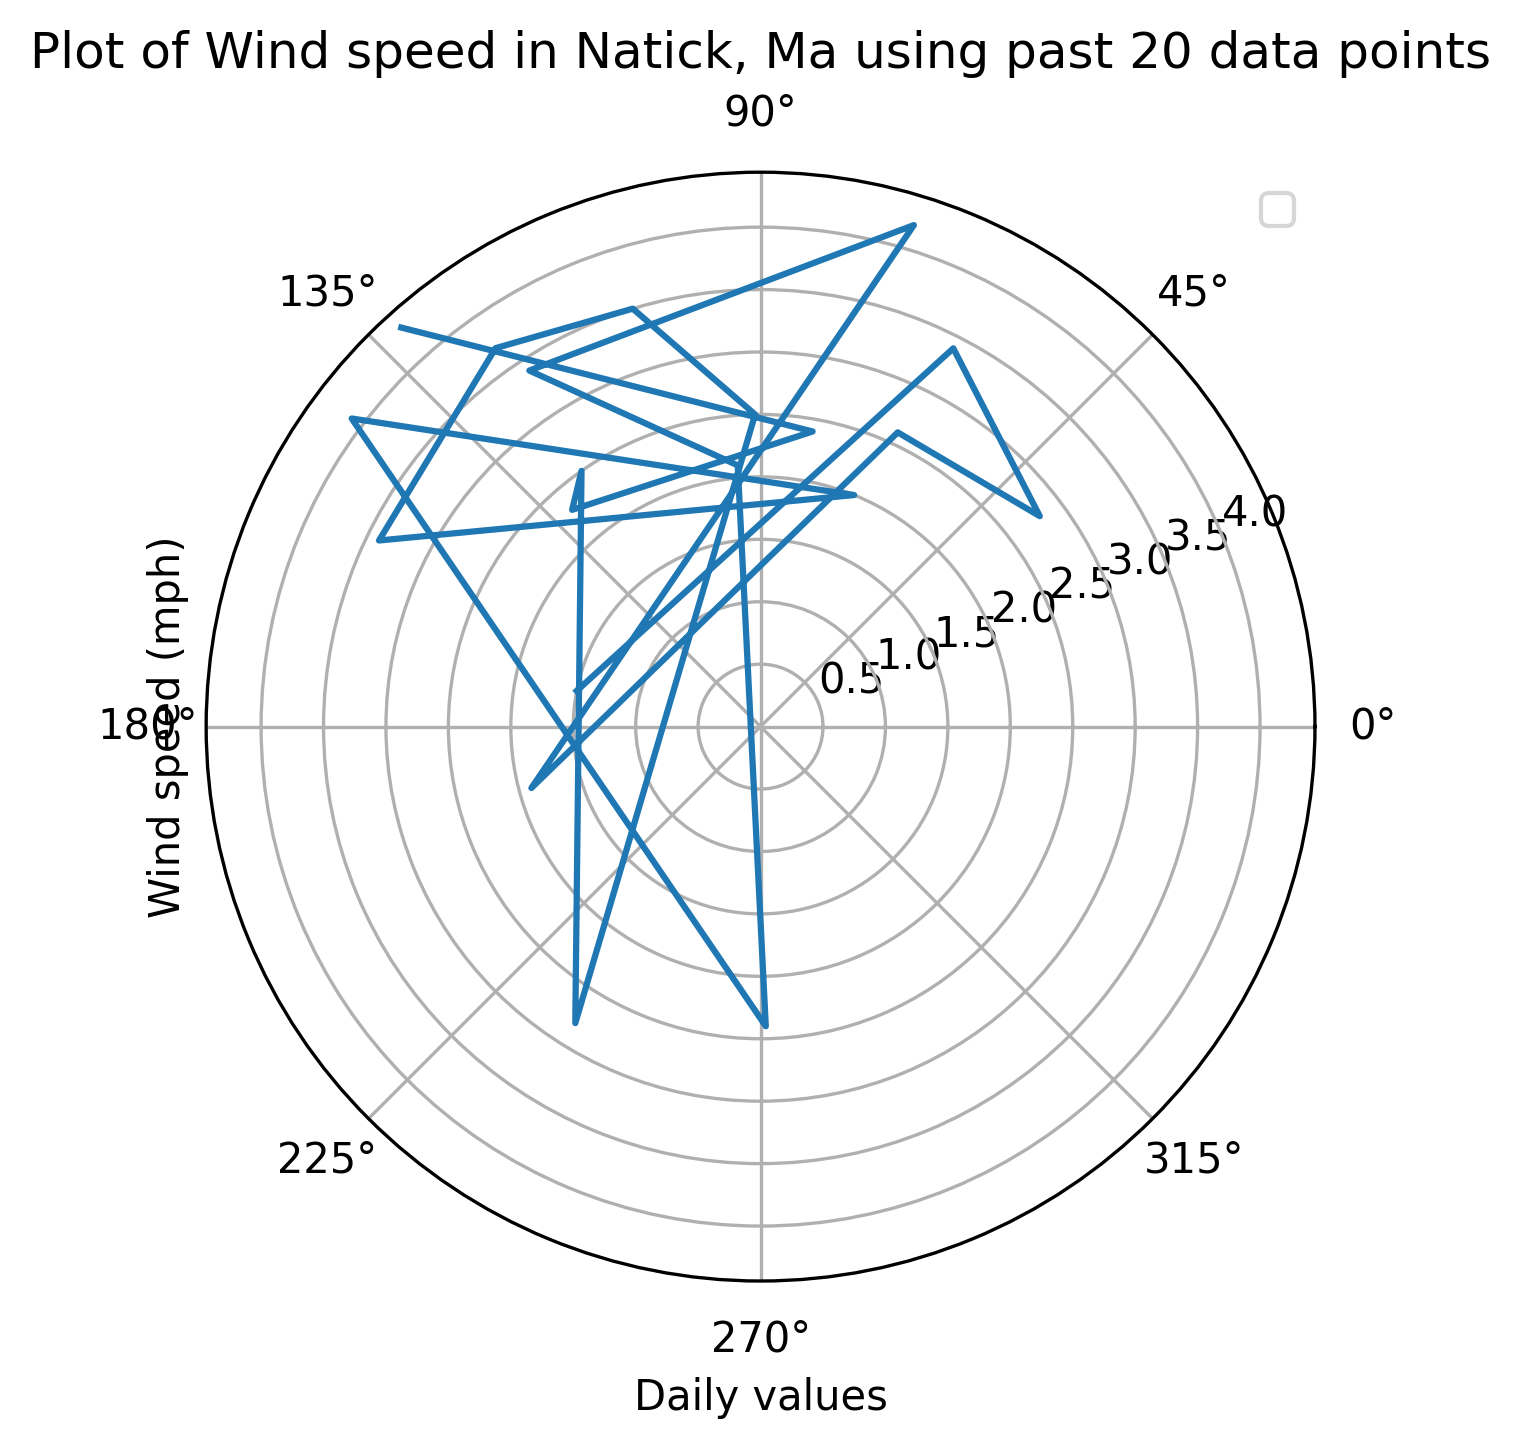
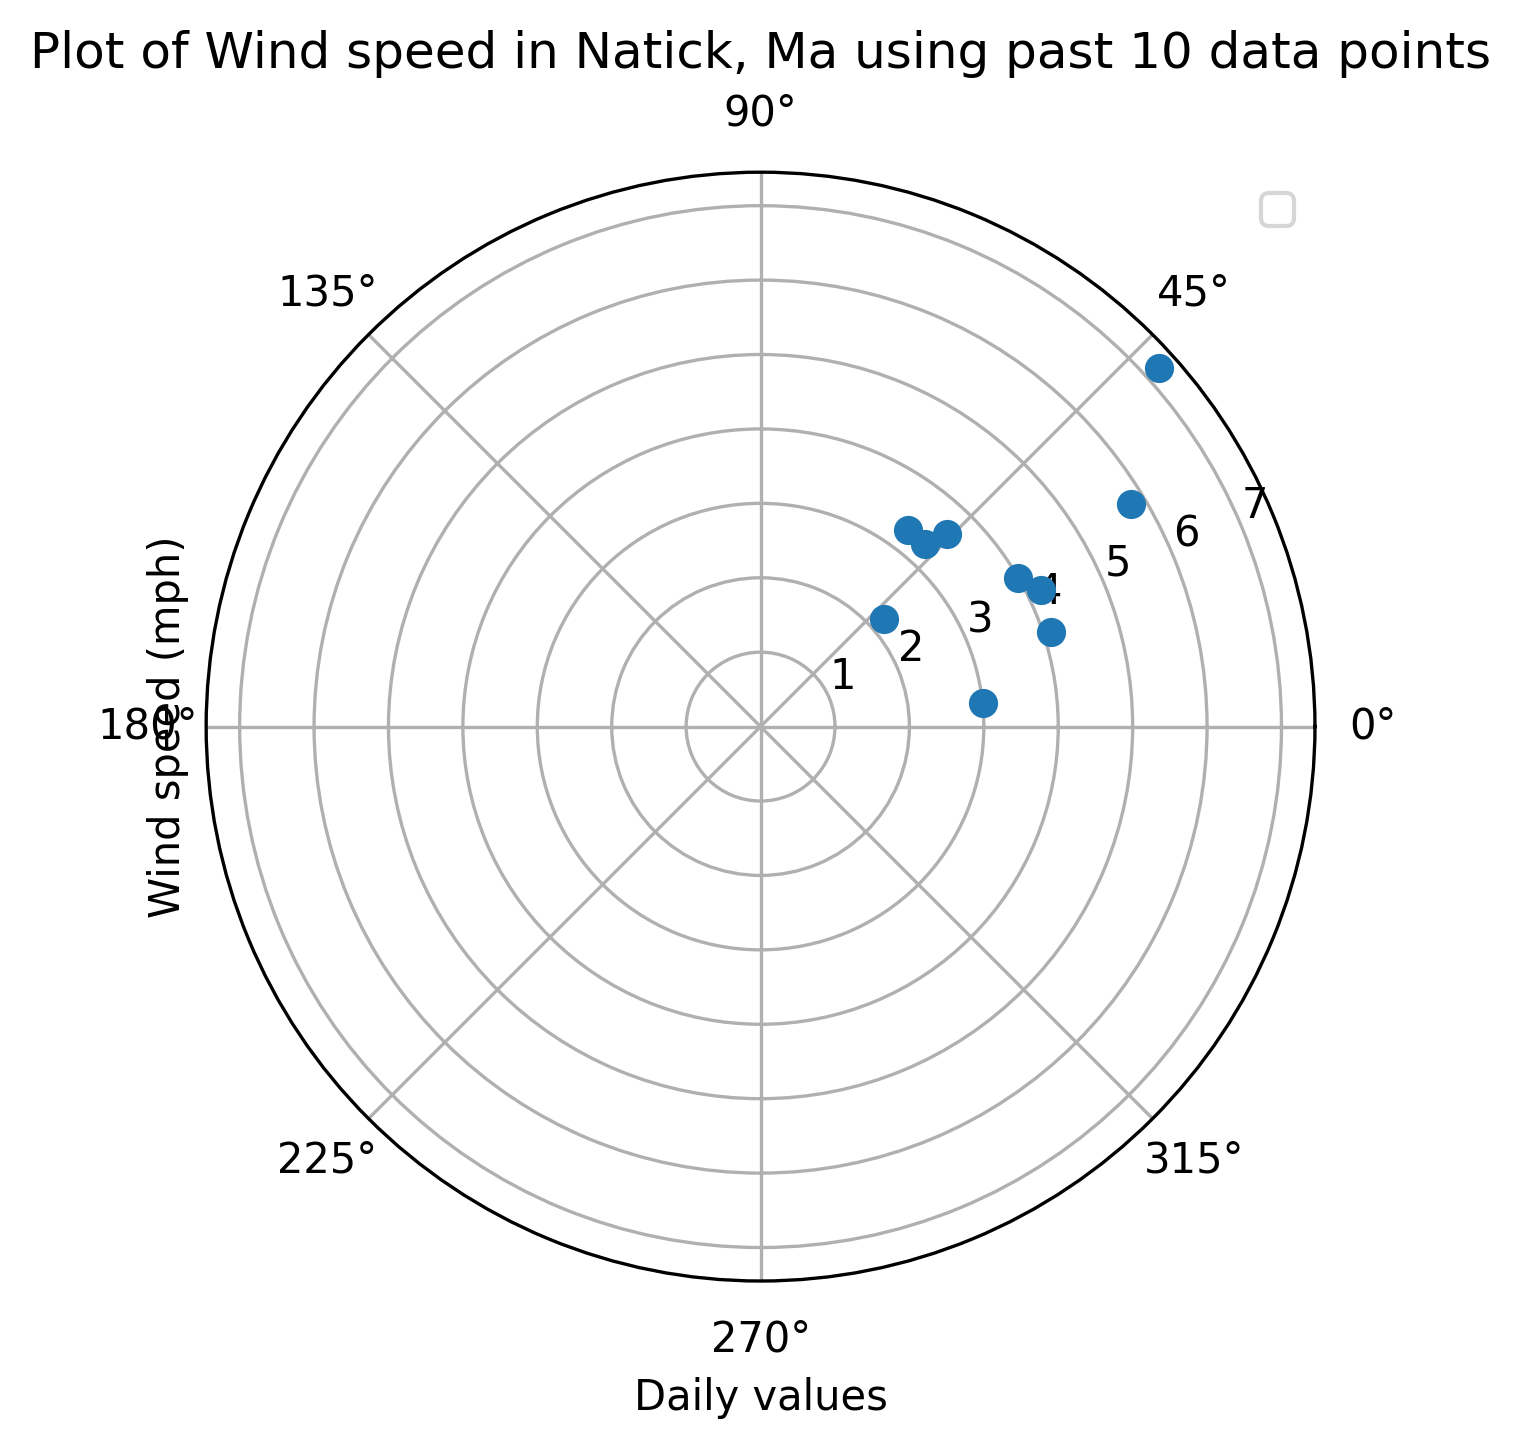
latest

diff --git a/main.py b/main.py
@@ -16,7 +16,7 @@ def main():
     print('-' * numDashes)
     print()
 
-    numPoints = 20
+    numPoints = 10
 
     # Get the last numPoints wind direction (field1) and speed (field2) samples
     getter = wg.WeatherGetter()
@@ -25,14 +25,17 @@ def main():
     # print(speedData)
     # print(dirData)
 
-    title = "Plot of Wind speed in Natick, Ma using past {} data points".format(numPoints)
+    title = "Plot of Wind direction and speed in Natick, MA using past {} data points".format(numPoints)
     plotter = wp.WeatherPlotter()
 #    plotter.plotData(speedData, title, "Daily values", "Wind speed (mph)")
-    # convert dirData to radians
-    radData = []
-    for dir in dirData:
-        rad = (((dir * -1) * np.pi) / 180) + (2 * np.pi)
-        radData.append(rad)
+
+    # convert dirData to radians. Note we're using numpy-style notation here:
+    # operation is performed on the entire array
+    radData = (((dirData * -1) * np.pi) / 180) + (2 * np.pi)
+    # radData = []
+    # for dir in dirData:
+    #     rad = (((dir * -1) * np.pi) / 180) + (2 * np.pi)
+    #     radData.append(rad)
 
     plotter.plotPolar(radData, speedData, title, "Daily values", "Wind speed (mph)")
 

diff --git a/WeatherPlotter.py b/WeatherPlotter.py
@@ -22,7 +22,7 @@ class WeatherPlotter:
         plt.show()
 
     def plotPolar(self, series1, series2, title = '', xLabel = '', yLabel = '', legend = []):
-        plt.polar(series1, series2)
+        plt.polar(series1, series2, 'o')
 
         # for i in range(len(series1)):
         #     plt.polar(series1[i], series2[i])
